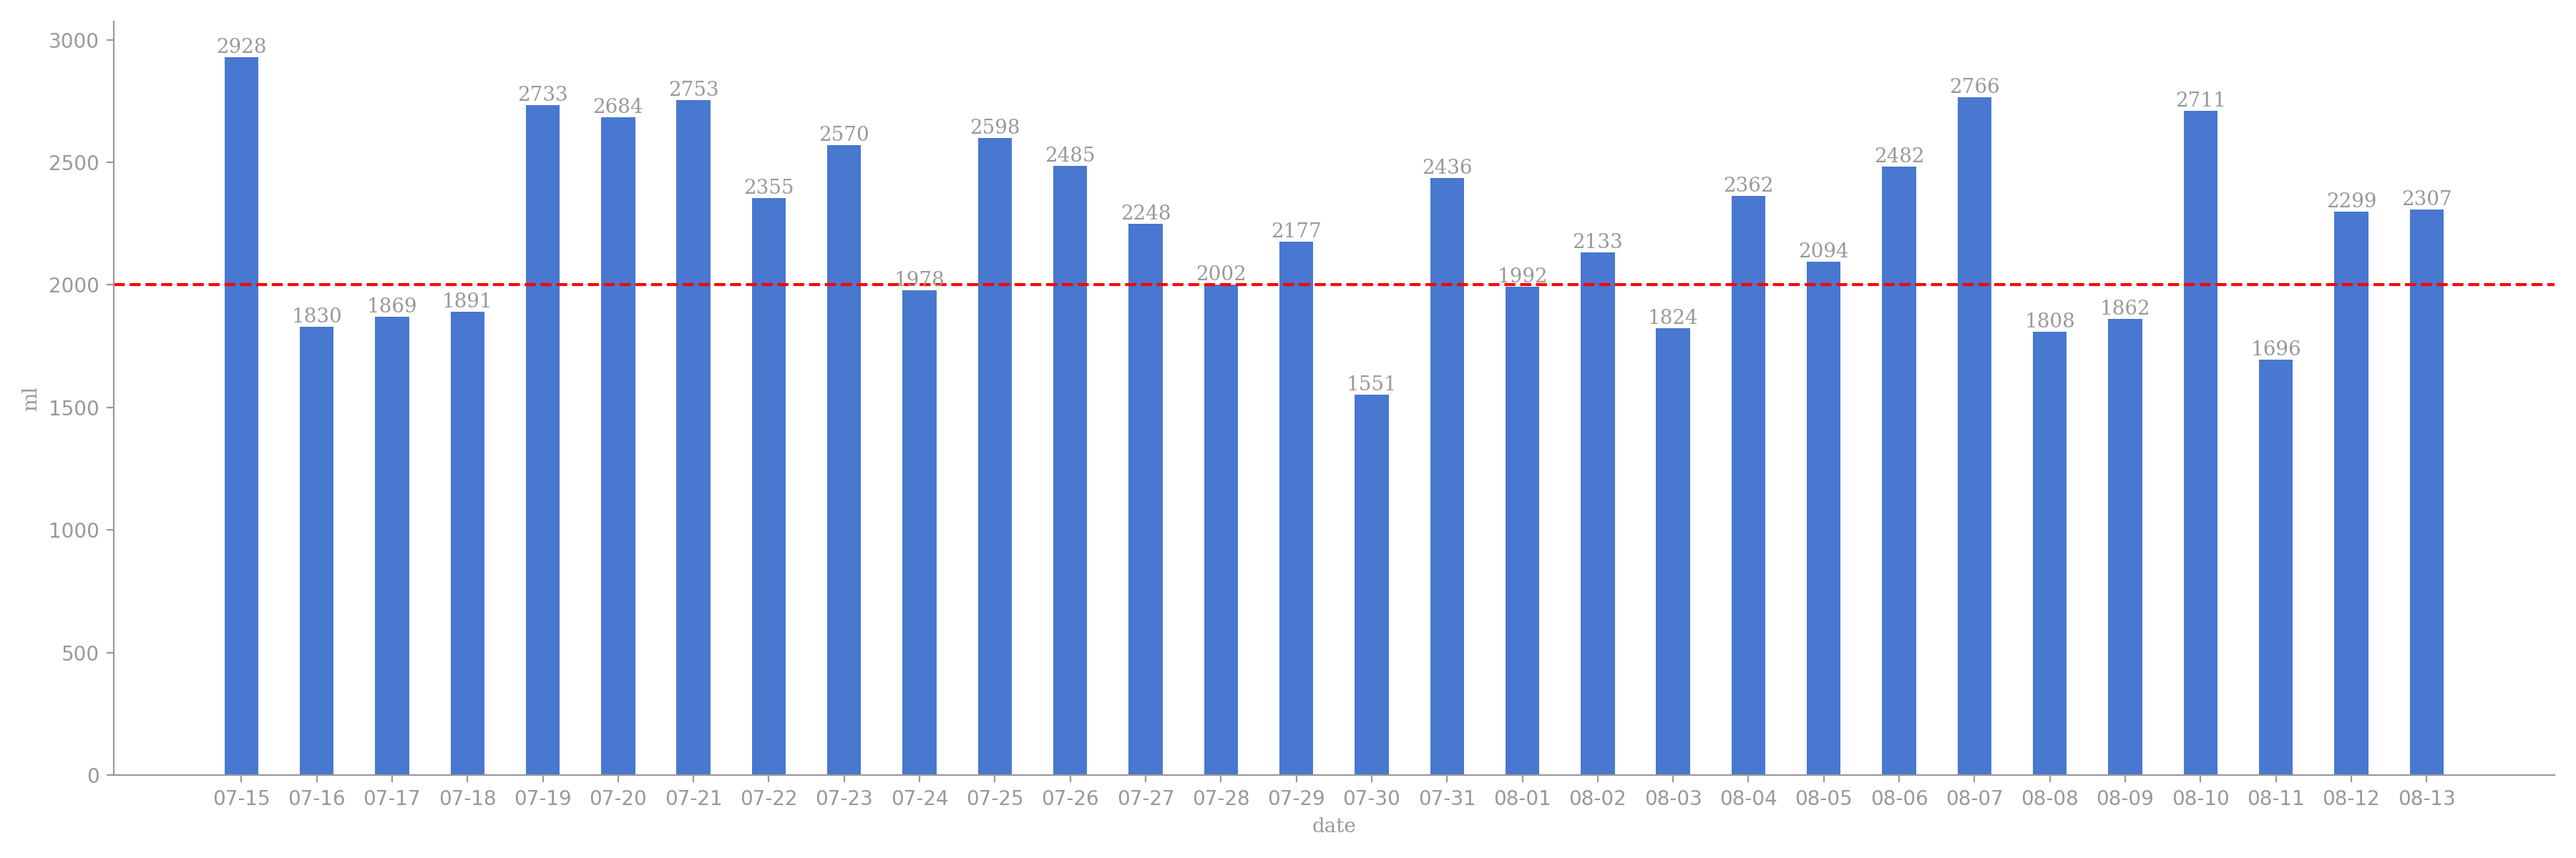
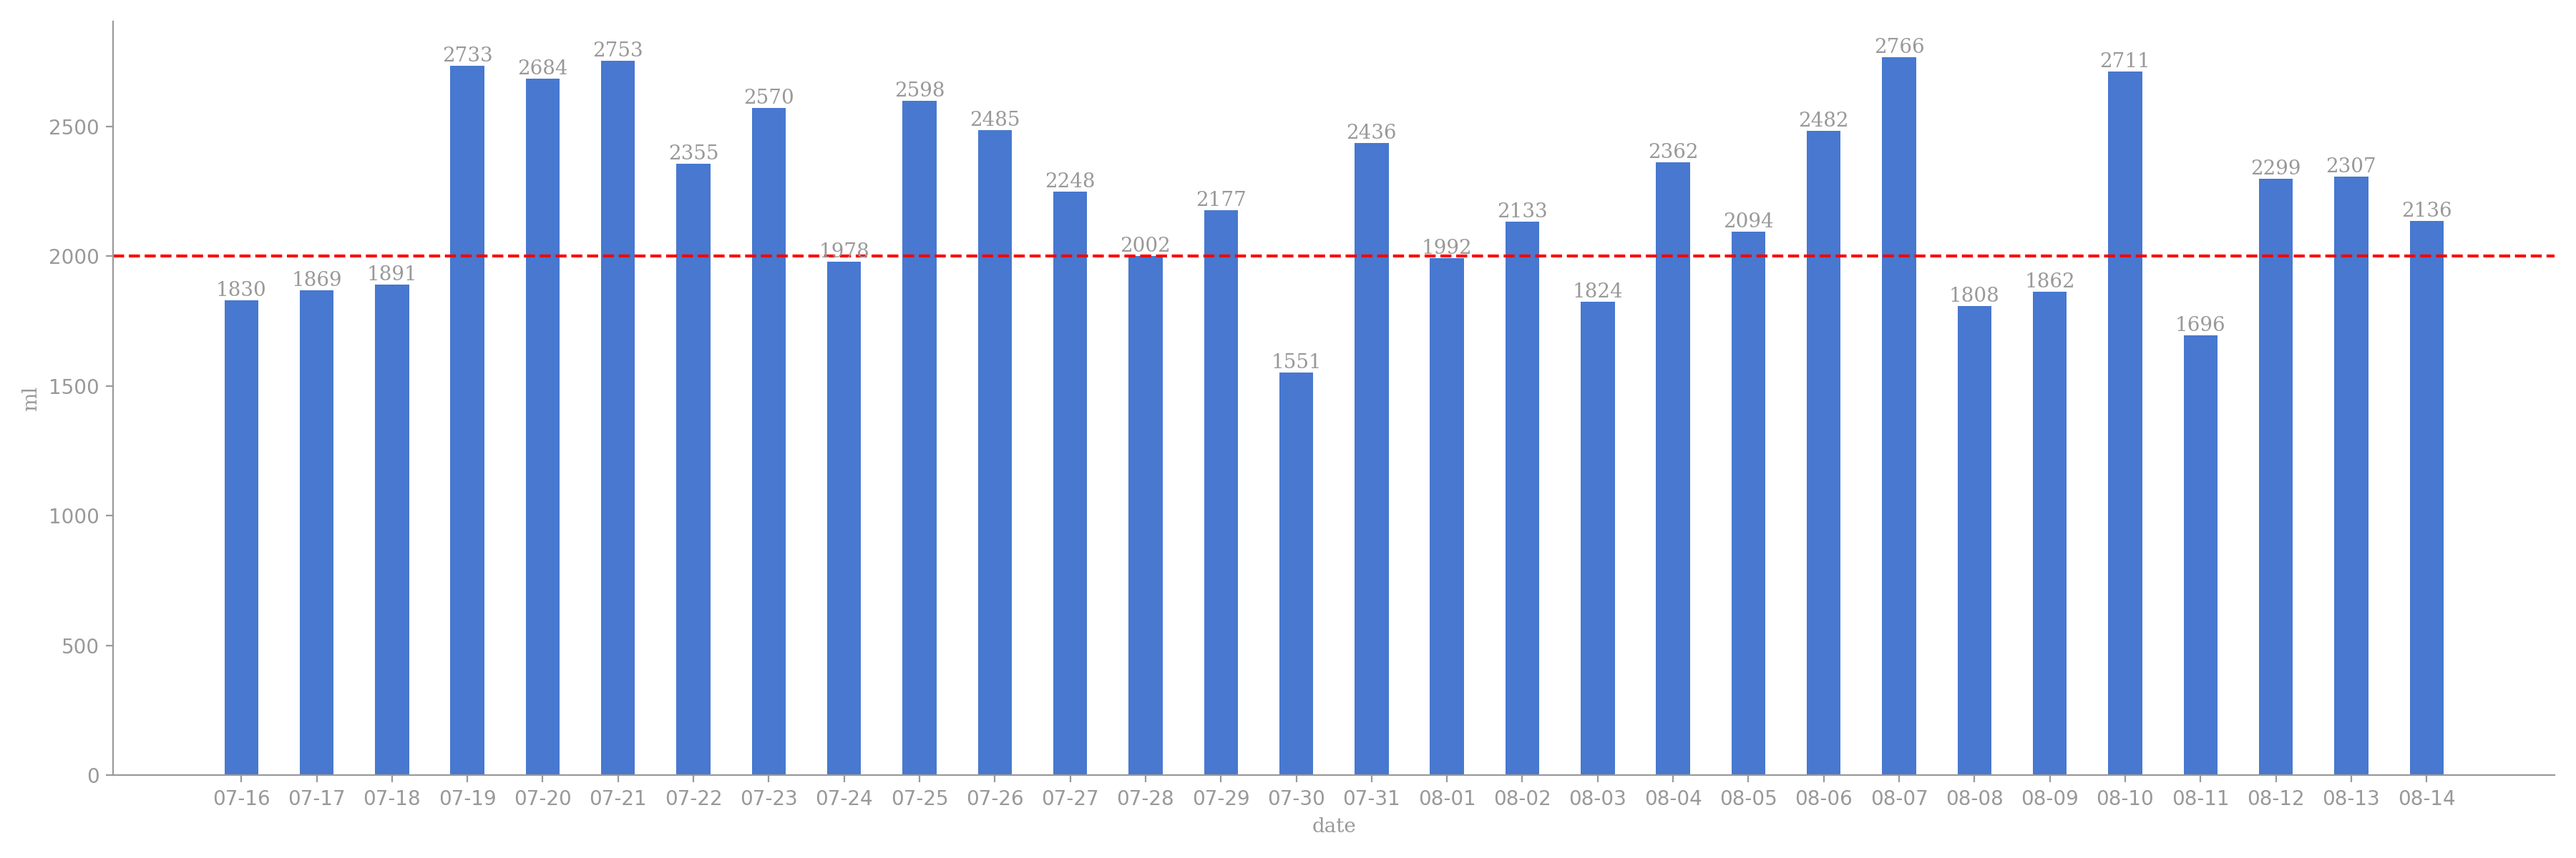
crontab auto git

diff --git a/README.md b/README.md
@@ -1,17 +1,3 @@
-# 今日饮水数据
-
-<div align=center>
-<img src="today.png" style="zoom: 100%;" />
-
-| 今日总饮水量 | 每小时平均饮水量 |
-| :----: | :----: |
-| 2136 | 152 |
-</div>
-
-| 日期 | 01:17:51 | 01:34:06 | 09:23:56 | 11:11:49 | 13:48:04 | 14:12:06 | 14:52:16 | 15:16:56 | 15:42:58 | 16:57:48 | 17:11:07 | 17:37:38 | 18:03:46 | 18:25:12 | 18:50:21 | 19:11:11 | 19:43:58 | 19:59:23 | 20:26:04 | 21:28:14 | 22:04:03 | 22:59:12 | 23:17:21 |
-| :----: | :----: | :----: | :----: | :----: | :----: | :----: | :----: | :----: | :----: | :----: | :----: | :----: | :----: | :----: | :----: | :----: | :----: | :----: | :----: | :----: | :----: | :----: | :----: |
-| 2026-08-14 | 73 | 83 | 86 | 57 | 300 | 86 | 56 | 66 | 84 | 64 | 58 | 63 | 50 | 75 | 86 | 79 | 84 | 52 | 73 | 300 | 86 | 89 | 86 |
-
 # 近30日饮水数据
 
 <div align=center>
@@ -19,8 +5,12 @@
 
 | 总饮水量 | 日均饮水量 |
 | :----: | :----: |
-| 67424 | 2247 |
+| 66632 | 2221 |
 </div>
+
+| 日期 | all | 01:17:51 | 01:34:06 | 09:23:56 | 11:11:49 | 13:48:04 | 14:12:06 | 14:52:16 | 15:16:56 | 15:42:58 | 16:57:48 | 17:11:07 | 17:37:38 | 18:03:46 | 18:25:12 | 18:50:21 | 19:11:11 | 19:43:58 | 19:59:23 | 20:26:04 | 21:28:14 | 22:04:03 | 22:59:12 | 23:17:21 |
+| :----: | :----: | :----: | :----: | :----: | :----: | :----: | :----: | :----: | :----: | :----: | :----: | :----: | :----: | :----: | :----: | :----: | :----: | :----: | :----: | :----: | :----: | :----: | :----: | :----: |
+| 2026-08-14 | 2136 | 73 | 83 | 86 | 57 | 300 | 86 | 56 | 66 | 84 | 64 | 58 | 63 | 50 | 75 | 86 | 79 | 84 | 52 | 73 | 300 | 86 | 89 | 86 |
 
 | 日期 | all | 00:12:28 | 00:44:35 | 01:54:13 | 03:32:36 | 09:04:15 | 09:41:01 | 11:43:27 | 12:26:13 | 12:55:05 | 13:32:10 | 14:00:45 | 14:15:37 | 14:36:41 | 15:05:56 | 15:23:11 | 15:43:42 | 17:01:03 | 17:55:38 | 18:15:58 | 18:41:07 | 19:13:52 | 19:59:39 | 20:15:05 | 20:20:48 | 21:29:46 | 22:01:46 | 22:45:22 | 23:35:10 | 23:36:51 |
 | :----: | :----: | :----: | :----: | :----: | :----: | :----: | :----: | :----: | :----: | :----: | :----: | :----: | :----: | :----: | :----: | :----: | :----: | :----: | :----: | :----: | :----: | :----: | :----: | :----: | :----: | :----: | :----: | :----: | :----: | :----: |
@@ -141,8 +131,4 @@
 | 日期 | all | 00:02:41 | 00:12:36 | 00:52:36 | 00:57:06 | 01:00:42 | 01:19:09 | 01:44:31 | 02:15:44 | 03:17:08 | 03:49:31 | 09:28:55 | 12:09:53 | 12:38:27 | 14:05:45 | 14:25:05 | 14:39:01 | 15:28:26 | 16:01:38 | 16:02:38 | 17:10:05 | 17:39:31 | 18:08:28 | 18:14:06 | 19:11:06 | 19:19:51 | 19:42:22 | 19:47:43 | 19:55:28 | 20:46:03 | 21:20:08 | 21:42:21 | 22:21:48 | 23:37:08 | 23:49:08 |
 | :----: | :----: | :----: | :----: | :----: | :----: | :----: | :----: | :----: | :----: | :----: | :----: | :----: | :----: | :----: | :----: | :----: | :----: | :----: | :----: | :----: | :----: | :----: | :----: | :----: | :----: | :----: | :----: | :----: | :----: | :----: | :----: | :----: | :----: | :----: | :----: |
 | 2026-07-15 | 2928 | 102 | 209 | 152 | 61 | 86 | 81 | 102 | 52 | 62 | 26 | 76 | 66 | 102 | 300 | 66 | 33 | 56 | 100 | 100 | 55 | 82 | 51 | 64 | 86 | 92 | 69 | 62 | 30 | 62 | 100 | 86 | 66 | 88 | 103 |
-
-| 日期 | all | 00:04:36 | 01:58:45 | 03:59:33 | 04:02:04 | 04:28:47 | 07:18:15 | 09:33:12 | 12:03:01 | 12:40:05 | 14:05:04 | 14:27:24 | 15:58:40 | 16:48:30 | 17:08:23 | 18:03:44 | 19:14:24 | 20:45:28 | 21:43:52 | 22:02:45 |
-| :----: | :----: | :----: | :----: | :----: | :----: | :----: | :----: | :----: | :----: | :----: | :----: | :----: | :----: | :----: | :----: | :----: | :----: | :----: | :----: | :----: |
-| 2026-07-14 | 2077 | 400 | 85 | 89 | 31 | 16 | 50 | 86 | 66 | 61 | 300 | 66 | 44 | 77 | 62 | 102 | 113 | 67 | 300 | 62 |
 
